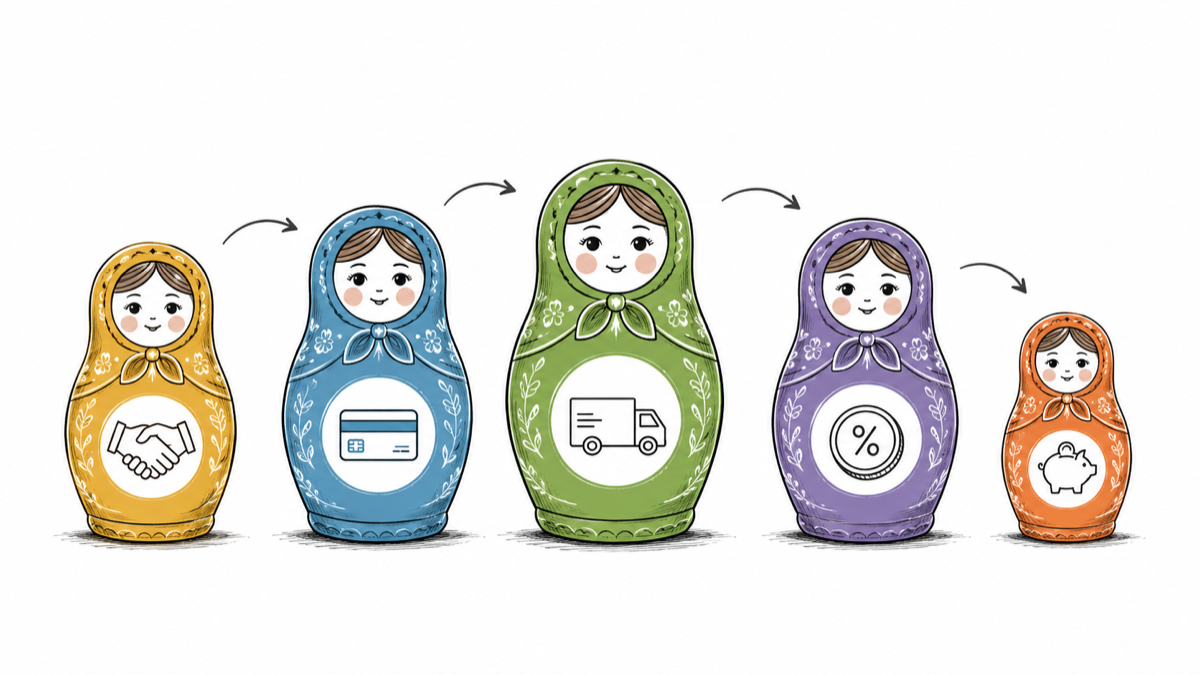
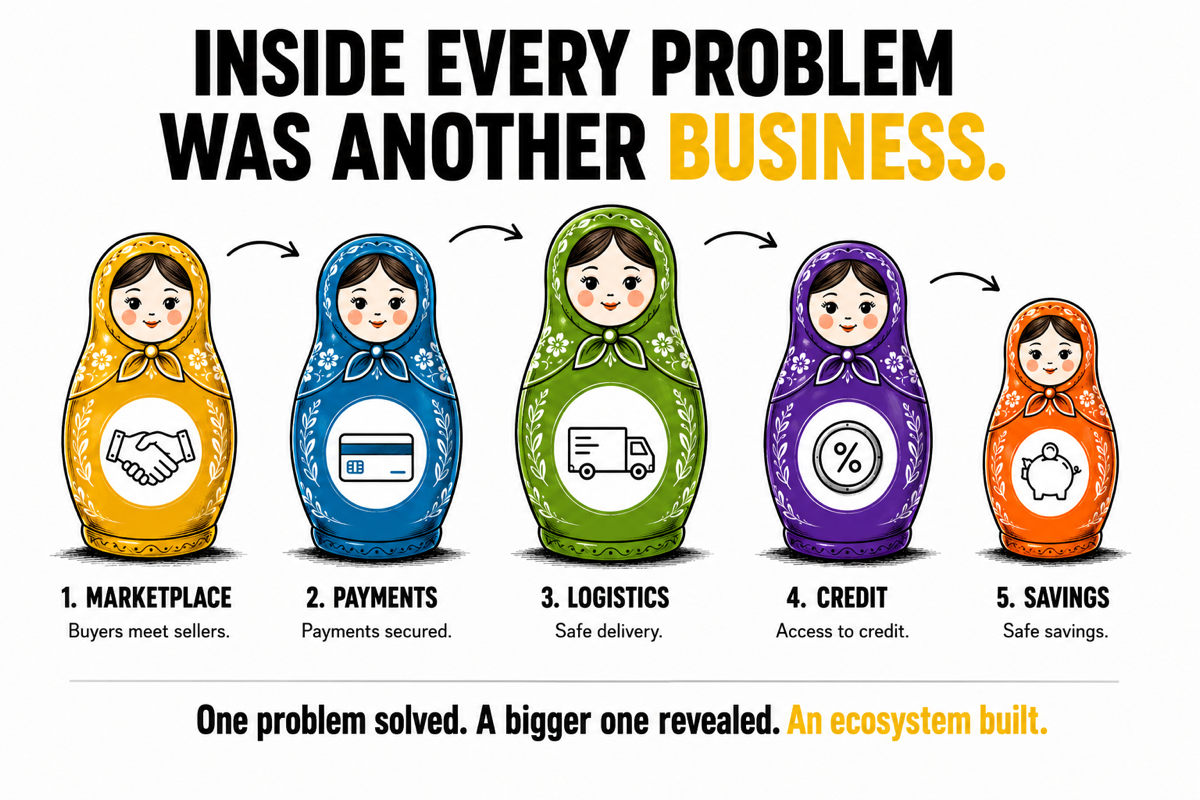
บท MELI: เปลี่ยนภาพ ecosystem เป็นเวอร์ชัน labeled + ปรับ caption
- ภาพใหม่มี title + label 5 ชั้น (Marketplace/Payments/Logistics/Credit/Savings) ในตัว
- caption แปลเป็นชื่อ product จริงของ MELI (Mercado Pago/Envíos/Crédito/Fondo) + โยง moat
- อัปเดต aspect 1200×800

diff --git a/articles/deep-dive-meli.html b/articles/deep-dive-meli.html
@@ -83,14 +83,13 @@
       </blockquote>
 
       <figure class="article-hero-img">
-        <img src="../img/meli-ecosystem.png" width="1200" height="675" loading="lazy"
-             alt="ระบบนิเวศ MercadoLibre เปรียบเหมือนตุ๊กตาแม่ลูกดก — แกะทีละชั้นเจอธุรกิจซ้อนธุรกิจ: ตลาดซื้อขาย, ระบบจ่ายเงิน, ขนส่ง, สินเชื่อ และที่พักเงิน">
+        <img src="../img/meli-ecosystem.png" width="1200" height="800" loading="lazy"
+             alt="ระบบนิเวศ MercadoLibre 5 ชั้นแบบตุ๊กตาแม่ลูกดก: Marketplace, Payments, Logistics, Credit, Savings — ทุกปัญหาที่แก้ซ่อนธุรกิจที่ใหญ่กว่าไว้ข้างใน">
         <figcaption>
-          <strong>ทำไม MELI เหมือนตุ๊กตาแม่ลูกดก?</strong> เริ่มจากตลาดซื้อขาย
-          <em>(จับมือ)</em> แล้วค่อยๆ แกะเจอธุรกิจซ้อนอยู่ข้างใน — ระบบจ่ายเงิน <em>(บัตร)</em> →
-          ขนส่งเอง <em>(รถ)</em> → สินเชื่อ <em>(%)</em> → ที่พักเงิน/ลงทุน <em>(กระปุก)</em>
-          ยิ่งแกะยิ่งเจอ และแต่ละชั้นต่อยอด+ล็อกลูกค้าไว้ในระบบเดียว นี่คือหัวใจของ moat ที่จะเล่าต่อข้างล่าง
-        </figcaption>
+          <strong>"ทุกปัญหาที่แก้ ซ่อนธุรกิจที่ใหญ่กว่าไว้ข้างใน"</strong> — MELI เริ่มจากตลาดซื้อขาย
+          (Marketplace) แล้วแตกเป็นระบบจ่ายเงิน <em>Mercado Pago</em> → ขนส่ง <em>Mercado Envíos</em> →
+          สินเชื่อ <em>Mercado Crédito</em> → ที่พักเงิน <em>Mercado Fondo</em> แก้ปัญหาหนึ่งเผยโอกาสที่ใหญ่กว่า
+          จนกลายเป็นระบบนิเวศที่ล็อกผู้ใช้ไว้ทั้งวงจร — นี่คือหัวใจของ moat
       </figure>
 
       <h2>1. ธุรกิจนี้หาเงินจากอะไร</h2>